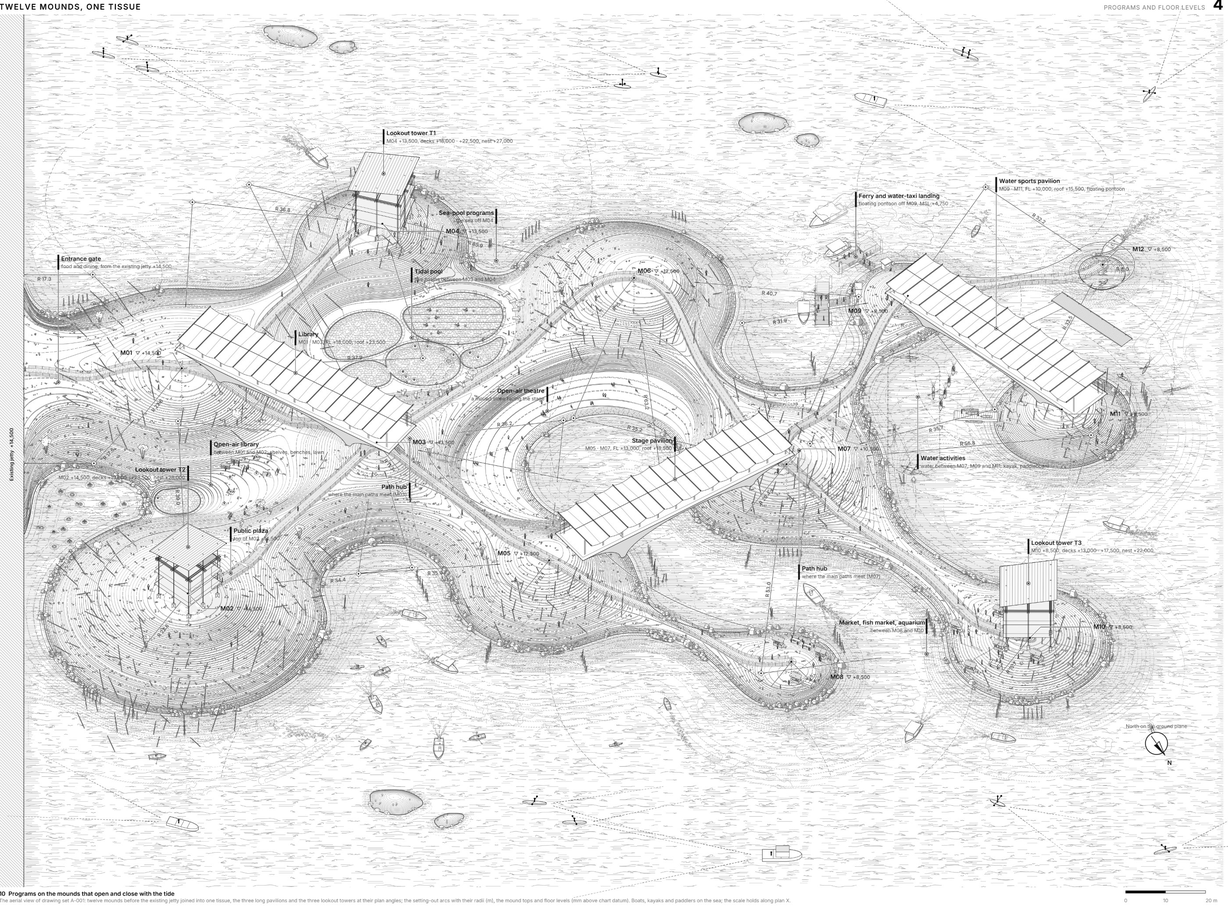
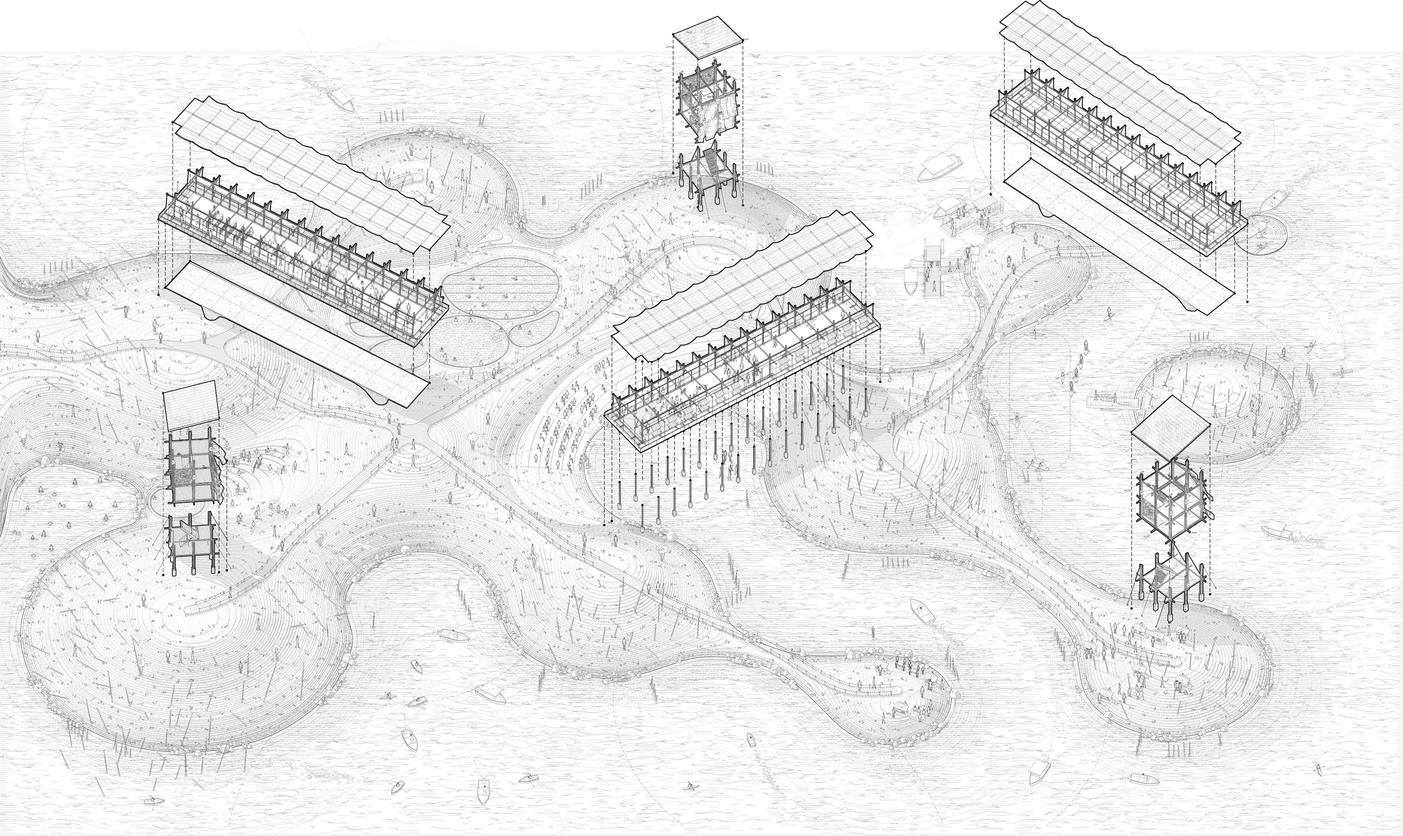
핀 #29 RE:TIDE Twelve Mounds: 원본에서 글자·지시선·패널 없이 분해 액소로 다시 뽑고 파빌리온 이름 여섯 개만 사이트 글자로

diff --git a/assets/js/data.js b/assets/js/data.js
@@ -98,7 +98,7 @@ const SITE = {
     items: [
       ["re-tide","assets/img/re-tide/cover.jpg",0.859],
       ["re-tide","assets/img/re-tide/site-wide.jpg",1.911],
-      ["re-tide","assets/img/re-tide/twelve-mounds.jpg",1.348],
+      ["re-tide","assets/img/re-tide/twelve-mounds.jpg",1.678],
       ["re-tide","assets/img/re-tide/water-a.jpg",1.462],
       ["motorism","assets/img/motorism/cover.jpg",2.034],
       ["motorism","assets/img/motorism/district-map.jpg",1.506],
@@ -225,7 +225,7 @@ const SITE = {
       { heading: "Tide — Spring and Neap", text: "The moon's 12.42 h and the sun's 12.00 h waves fall in and out of step every 14.77 days — 705 high waters a year, the range swelling from 3.11 m at neap to 8.65 m at spring and 9.62 m at most. Their bands set the plan zones: always dry, wet near spring, wet every day, always wet.", images: [], widget: "springneap" },
       { heading: "Tide — One Tide as a Dial", text: "A low-water stand 19.1 % of the year, B flood 28.9 %, C high-water stand 20.5 %, D ebb 31.4 % — still water four times a day.", images: [], widget: "dial" },
       { heading: "Tide — Twelfths and the Sine", text: "h(t) = Z₀ + A cos(2πt / T − φ), Z₀ +4.75 m, T 12 h 25 min: hour by hour the water rises 1, 2, 3, 3, 2 and 1 twelfths of its range, as the measured tide does; the 9 m section is cut in these layers.", widget: "sine", images: [] },
-      { heading: "Twelve Mounds, One Tissue", big: true, text: "Mounds on the eddies, paths on tangent arcs, a reef hollowed below and platforms on the crowns. Programs sit on the mounds and open and close with the tide.", images: [{src: "assets/img/re-tide/twelve-mounds.jpg", caption: "Twelve mounds, one tissue — programs and floor levels", r: 1.348}] },
+      { heading: "Twelve Mounds, One Tissue", big: true, text: "Mounds on the eddies, paths on tangent arcs, a reef hollowed below and platforms on the crowns. Programs sit on the mounds and open and close with the tide.", images: [{src: "assets/img/re-tide/twelve-mounds.jpg", caption: "Twelve mounds, one tissue — the long pavilions and lookout towers lifted off their mounds", r: 1.678, tags: [[13,10.3,"Library","c","lv"],[52.9,4.3,"Lookout tower T1","","lv"],[70.8,2.6,"Water sports pavilion","r","lv"],[42.7,36,"Stage pavilion","r","lv"],[11.3,48,"Lookout tower T2","r","lv"],[86.7,51.5,"Lookout tower T3","","lv"]]}] },
       { heading: "Flow Layers", text: "Five layers, 21 programs, 58 links: strips from the low outer edge to the high inner ground, each carrying its own programs.", images: [], widget: "flow" },
       { heading: "Rising Water — Simulation", big: true, // 핀 #32: 평면·단면을 위아래로 크게
         text: "One site at six water levels — the order in which the mounds become islands and go under. White is walkable ground joined to the pier, hatching is ground reached only over a long pavilion, dots are islands cut off by the sea, and a dashed line marks a mound already under water. Drag the bar or press play to run the water up and down.", images: [], sim: { r: 1.462, frames: [
